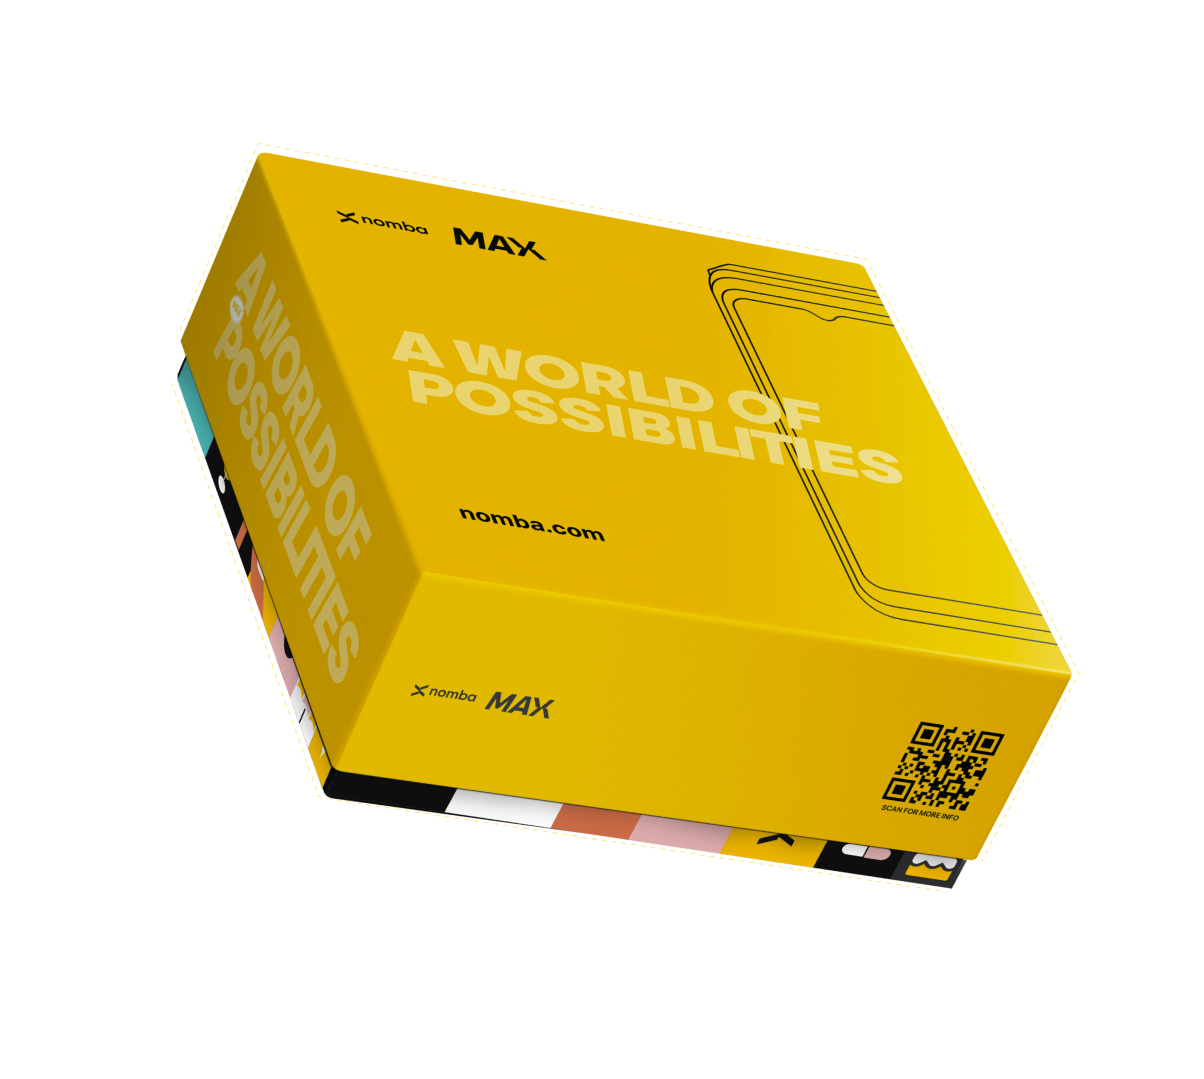
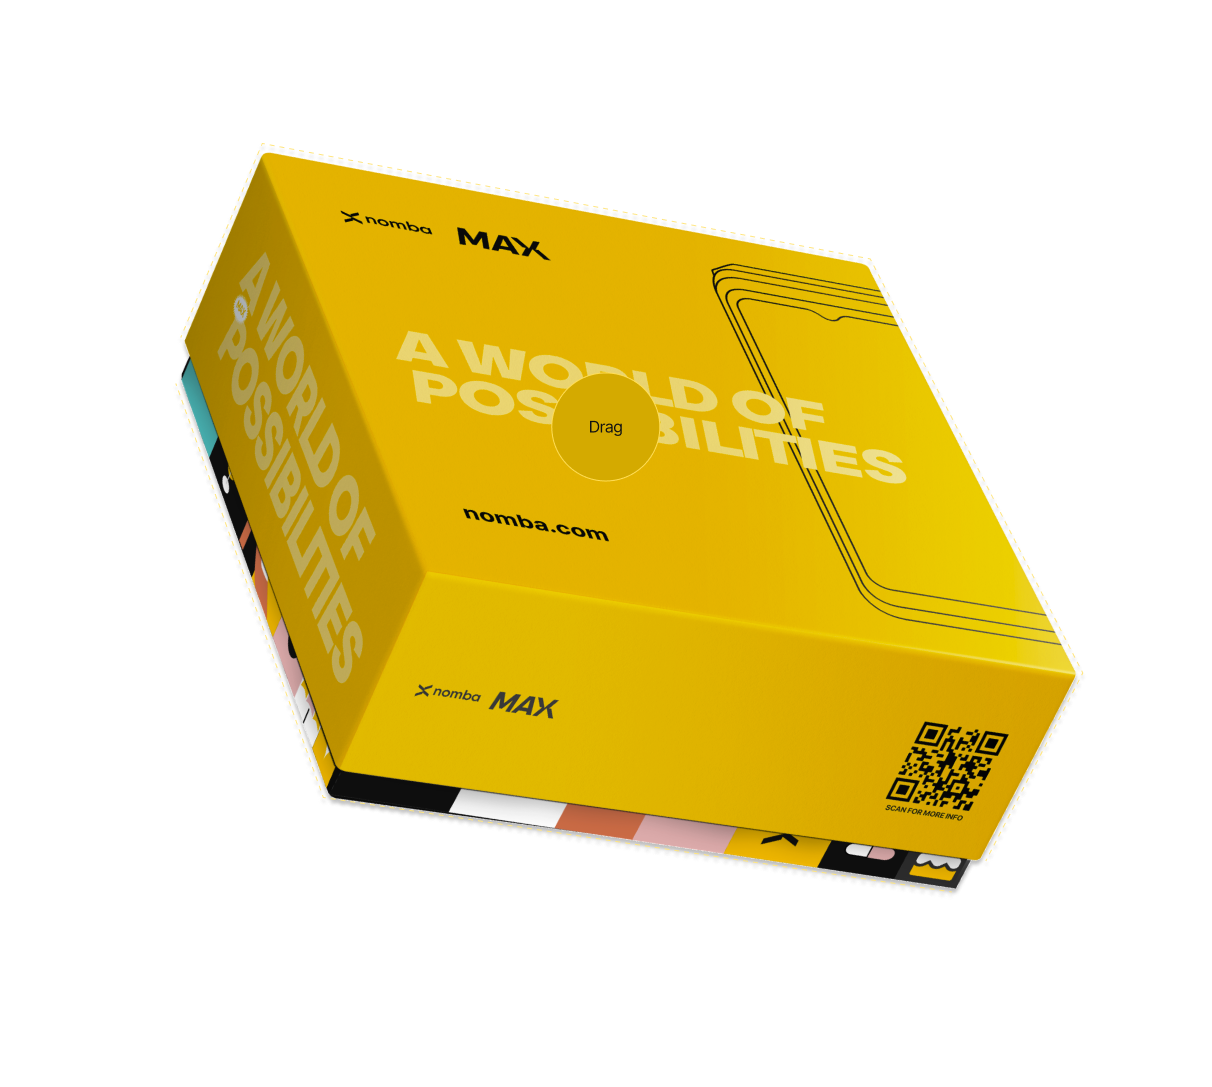
WIP: complete nomba oack drag fn

diff --git a/src/templates/terminal-page/dragndrop/drag.jsx b/src/templates/terminal-page/dragndrop/drag.jsx
@@ -1,12 +1,28 @@
 import { StaticImage } from "gatsby-plugin-image";
 import React from "react";
+import { useEffect } from "react";
 import "./index.scss";
+import { gsap } from "gsap";
+import { Draggable } from "gsap/Draggable";
+gsap.registerPlugin(Draggable);
 
 const Drag = () => {
+  useEffect(() => {
+    const box = document.querySelector(".c_drag_box");
+
+    Draggable.create(box, {
+      bounds: ".c_drag_img",
+      edgeResistance: 0.65,
+      type: "x,y",
+      inertia: true,
+      autoScroll: true,
+      throwProps: true,
+    });
+  }, []);
   return (
     <div className="c_drag">
-      <div className="img">
-        <StaticImage alt="" src="../../../assets/images/svgs/terminal/nomba_pack.png" />
+      <div className="c_drag_img">
+        <StaticImage className="c_drag_box" alt="" src="../../../assets/images/svgs/terminal/nomba_pack.png" />
       </div>
     </div>
   );

diff --git a/src/templates/terminal-page/dragndrop/index.scss b/src/templates/terminal-page/dragndrop/index.scss
@@ -1,11 +1,12 @@
 .c_drag{
     width: 100%;
-    .img{
+    &_img{
+        position: relative;
         cursor: grab;
-        width:80%;
+        width:85%;
         margin: 0 auto;
-       img{
+        z-index: 1;
         @extend %nodrag;
-       }
+        @extend %noselect;
     }
 }

diff --git a/src/templates/terminal-page/terminal-sect/terminalSectInt.jsx b/src/templates/terminal-page/terminal-sect/terminalSectInt.jsx
@@ -14,7 +14,7 @@ const TerminalSectionInteractions = () => {
     if (!isHover) {
       setTimeout(() => {
         video.current.play();
-      }, 8000);
+      }, 800);
     } else {
       video.current.currentTime = 0;
       video.current.pause();
